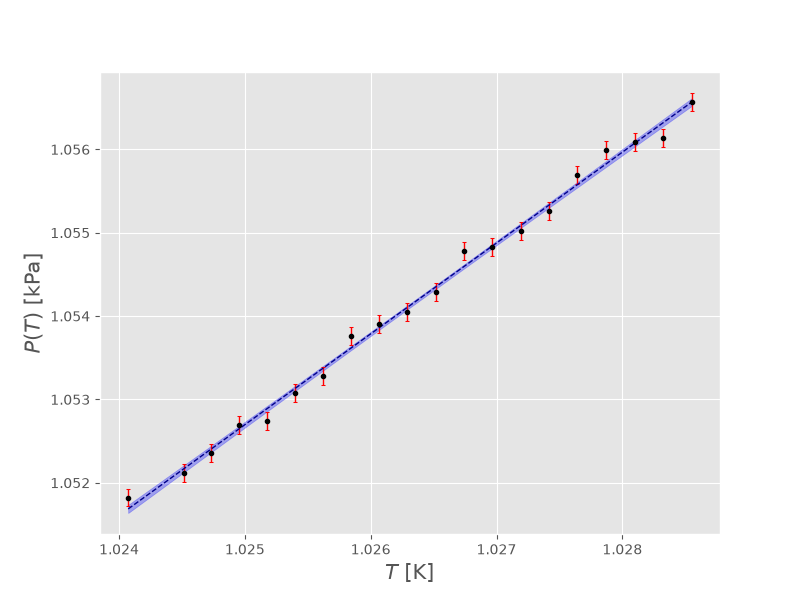
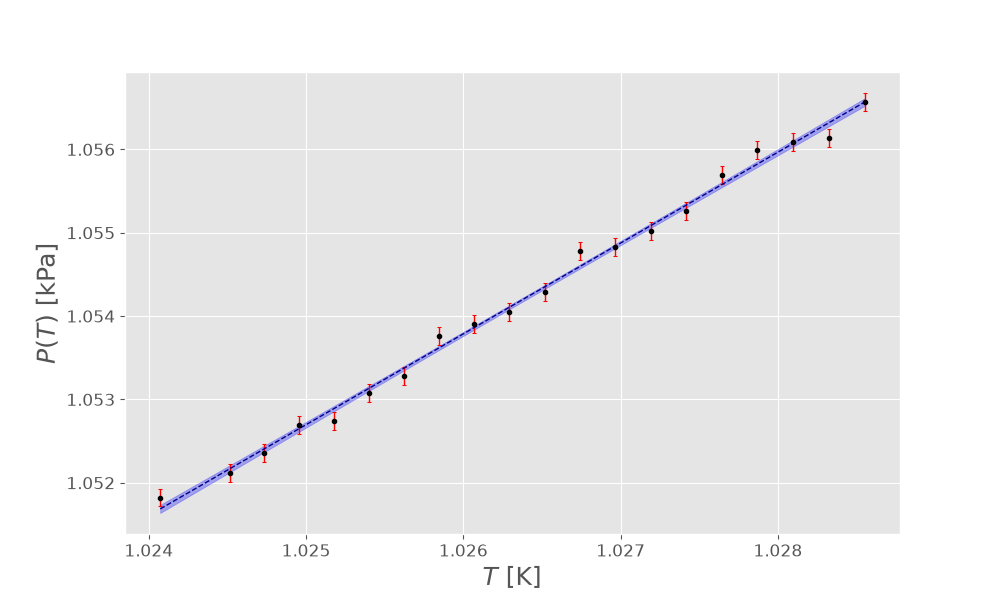
aggiustamentazioni

diff --git a/gay_lussac.py b/gay_lussac.py
@@ -20,30 +20,34 @@ da_all = []
 
 m_exp = 1
 
+CHI2 = DataFrame({
+    "chi2": [],
+    "ni": [],
+})
 
 N_misure = 4
-for i in range(1, N_misure+1):
+for i in range(2, N_misure+1):
     dati_T = converti(f"./misure/temperatura gl/temp{i}.txt")
     dati_T["Temperatura(C)"] = c_to_k(dati_T["Temperatura(C)"])
     dati_P = converti(f"./misure/pressione gl/press{i}.txt")
-    fig, ax = plt.subplots(1, 2, figsize=(10, 4))
-    ax[0].plot(dati_P["Tempo(s)"], dati_P["Pressione(kPa)"], "o", label="$P(t)$", markersize=1)
-    ax[0].set_xlabel("$t$ [s]")
-    ax[0].set_ylabel("$P$ [kPa]")
-    ax[1].plot(dati_T["Tempo(s)"], dati_T["Temperatura(C)"], "o",label="$T(t)$", markersize=1)
-    ax[1].set_xlabel("$t$ [s]")
-    ax[1].set_ylabel("$T$ [K]")
-    fig.savefig(f"./grafici/gl/T(t)_P(t)_{i}.png")
+    # fig, ax = plt.subplots(1, 2, figsize=(10, 4))
+    # ax[0].plot(dati_P["Tempo(s)"], dati_P["Pressione(kPa)"], "o", label="$P(t)$", markersize=1)
+    # ax[0].set_xlabel("$t$ [s]")
+    # ax[0].set_ylabel("$P$ [kPa]")
+    # ax[1].plot(dati_T["Tempo(s)"], dati_T["Temperatura(C)"], "o",label="$T(t)$", markersize=1)
+    # ax[1].set_xlabel("$t$ [s]")
+    # ax[1].set_ylabel("$T$ [K]")
+    # fig.savefig(f"./grafici/gl/T(t)_P(t)_{i}.png")
     P_0 = P_a
     dP_0 = dP_a = 0.01
     # escludo il transiente iniziale
     dati_T = dati_T[(dati_T["Tempo(s)"] >= inf_tlim)]
     dati_P = dati_P[(dati_P["Tempo(s)"] >= inf_tlim)]
     fig, ax = plt.subplots(figsize=(8, 6))
-    ax.plot(dati_T["Temperatura(C)"], dati_P["Pressione(kPa)"], "o", label="$P(t)$", markersize=1)
-    ax.set_xlabel("$T$ [K]")
-    ax.set_ylabel("$P(T)$ [kPa]")
-    fig.savefig(f"./grafici/gl/P(T)_{i}_cut.png")
+    # ax.plot(dati_T["Temperatura(C)"], dati_P["Pressione(kPa)"], "o", label="$P(t)$", markersize=1)
+    # ax.set_xlabel("$T$ [K]")
+    # ax.set_ylabel("$P(T)$ [kPa]")
+    # fig.savefig(f"./grafici/gl/P(T)_{i}_cut.png")
     dati_T = dati_T.loc[dati_T.groupby("Temperatura(C)")["Tempo(s)"].idxmin()].sort_values("Tempo(s)")[-20:]
     dati_P = dati_P[dati_P['Tempo(s)'].isin(dati_T['Tempo(s)'])][-20:]
 
@@ -91,10 +95,13 @@ for i in range(1, N_misure+1):
 
     chi2 = fit.get_chi2().chi2
     df = fit.get_chi2().df
+    CHI2.loc[i] = [chi2, df]
     a = p[0]
     da = sqrt(cov[0][0])
     a_all.append(a)
     da_all.append(da)
+
+    print(f"q = {p[1]} +- {sqrt(cov[1][1])}")
 
     print(f"a = {a} +- {da}")
     print("chi2 = ", chi2)
@@ -103,9 +110,9 @@ for i in range(1, N_misure+1):
     print("\n")
 
 
-    fig, ax = plt.subplots(figsize=(8, 6))
-    fit.graph(ax, ("$T$ [K]", "$P(T)$ [kPa]"), 3, 15)
-    fig.savefig(f"./grafici/gl/P(T)_{i}.png")
+    # fig, ax = plt.subplots(figsize=(10, 6))
+    # fit.graph(ax, ("$T$ [K]", "$P(T)$ [kPa]"), 3, 18, 12)
+    # fig.savefig(f"./grafici/gl/P(T)_{i}.png")
 
 a_all = array(a_all)
 da_all = array(da_all)
@@ -116,3 +123,10 @@ dm = 1/sqrt(sum(1/da_all**2))
 print(f"m = {m} +- {dm}")
 z = abs(m_exp - m)/dm
 print("z = ", z)
+
+print(DataFrame({
+    "m": a_all,
+    "dm": da_all,
+}).to_latex())
+
+print(CHI2.round(2).to_latex())
